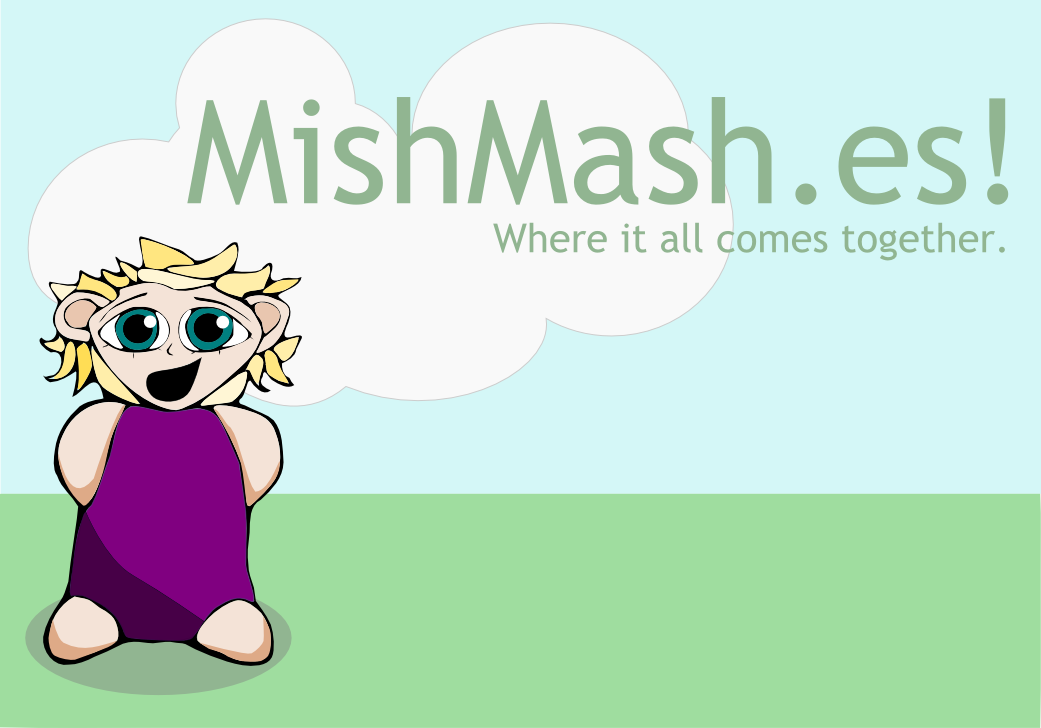
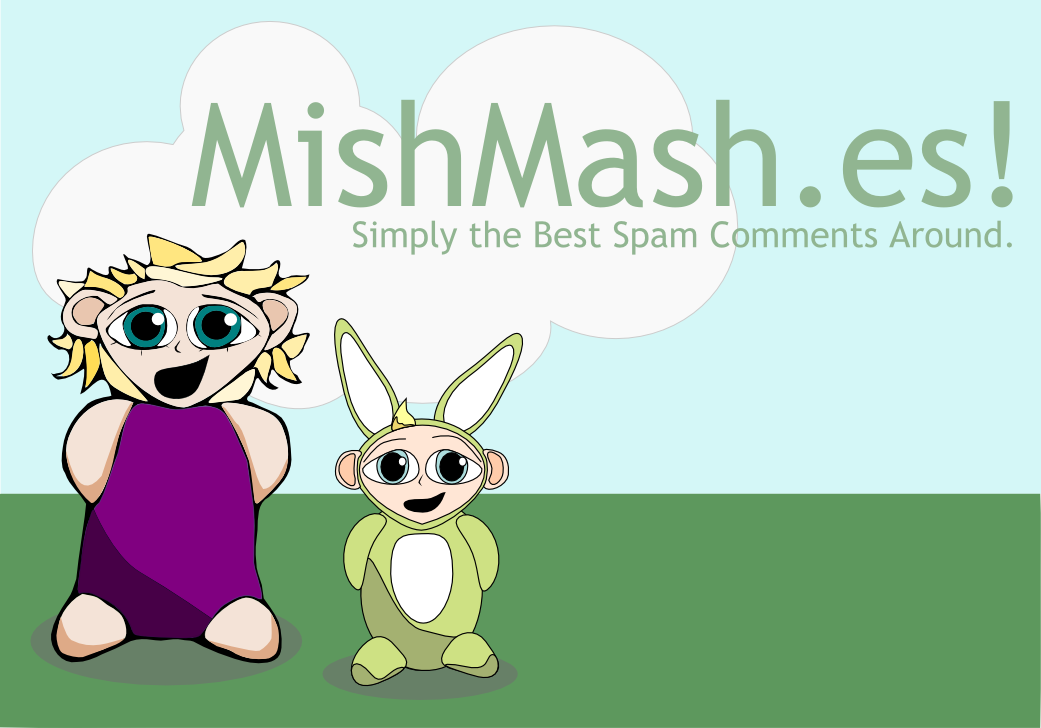
.

diff --git a/app/assets/stylesheets/application.css b/app/assets/stylesheets/application.css
@@ -8,7 +8,7 @@
 body{
     		margin:0 0px;
     		padding:0 0px;
-    		background: #9fdd9f url("/assets/backgroundBG.png") top center repeat-x;
+    		background: #5d985d url("/assets/backgroundBG.png") top center repeat-x;
     		
     	}
       #divWrapper{
@@ -18,6 +18,17 @@ body{
       	width:1000px;
       	height:728px;
       	background: url("/assets/mishmashesNoField.png") top center no-repeat;
+      }
+      #divSpeechBubble{
+      	background: url("/assets/speechbubble.png") top center no-repeat;
+      	position:absolute;
+      	top:260px;
+      	left:480px;
+      	width:520px;
+      	height:230px;
+      }
+      #divBubbleText{
+      	margin:65px 35px 40px 70px;
       }
       #div312{
       	color:#527252;

diff --git a/app/controllers/home_controller.rb b/app/controllers/home_controller.rb
@@ -1,5 +1,7 @@
 class HomeController < ApplicationController
   def index
+    @rand_id = rand(Spam.count)
+    @Spam = Spam.first(:conditions => [ "id > ?", @rand_id])
   end
 
 end
